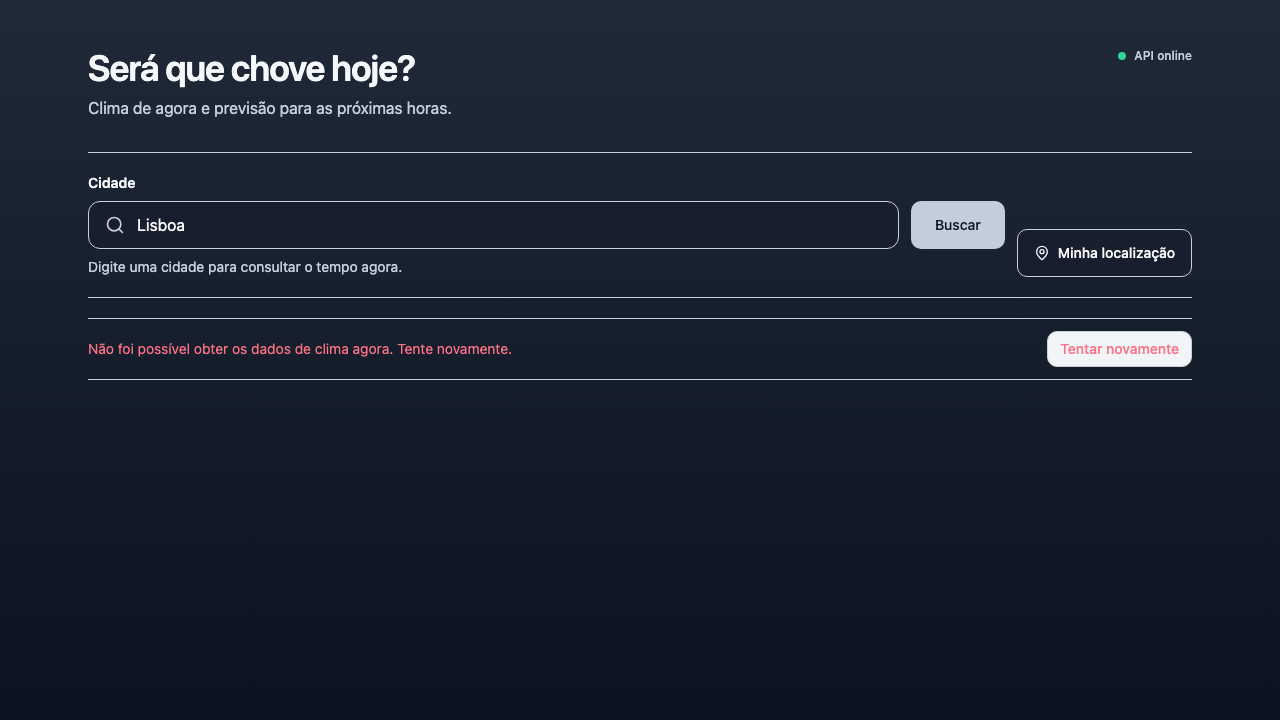
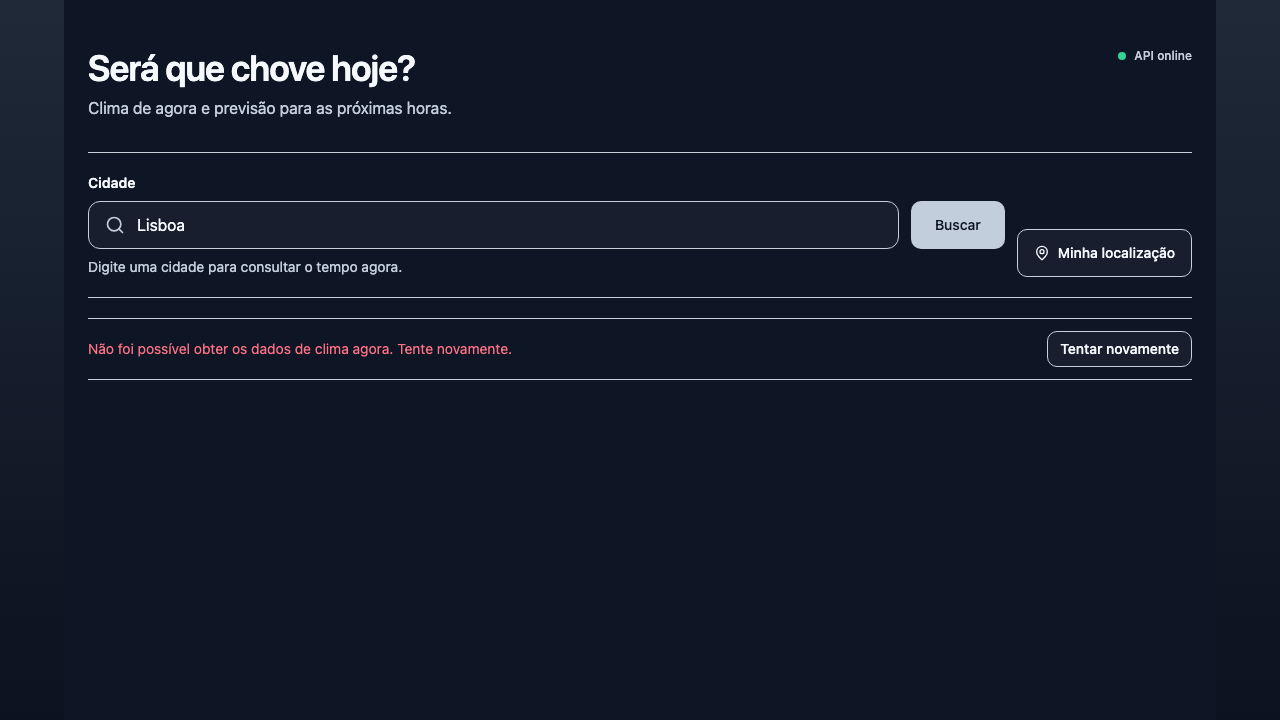
fix: ajustes apos execucao do code review

Changed region(s): [[0.8125, 0.4583, 0.9375, 0.5194]]

diff --git a/frontend/src/lib/resolve-theme.test.ts b/frontend/src/lib/resolve-theme.test.ts
@@ -10,23 +10,8 @@ const BANDS = Object.keys(BAND_COLORS) as (keyof typeof BAND_COLORS)[]
 
 describe('theme resolution', () => {
   it('TU-50 audits text, component and focus contrast across the token matrix', () => {
-    FAMILIES.forEach((family) => PERIODS.forEach((period: SurfacePeriod) => {
-      const tokens = resolveTheme({ conditionFamily: family, temperatureBand: getTemperatureBand(20), isDay: period === 'day' })
-      expect(meetsTextAA(tokens['surface-foreground'], tokens.surface)).toBe(true)
-      expect(meetsTextAA(tokens['surface-muted'], tokens.surface)).toBe(true)
-      expect(meetsTextAA(tokens['surface-foreground'], tokens['surface-raised'])).toBe(true)
-      expect(meetsTextAA(tokens['surface-muted'], tokens['surface-raised'])).toBe(true)
-      expect(meetsNonTextAA(tokens['focus-ring'], tokens.surface)).toBe(true)
-      expect(meetsTextAA(tokens['status-ok'], tokens.surface)).toBe(true)
-      expect(meetsTextAA(tokens['status-warn'], tokens.surface)).toBe(true)
-      expect(meetsTextAA(tokens['status-error'], tokens.surface)).toBe(true)
-    }))
-    BANDS.forEach((band) => {
-      const tokens = resolveTheme({ conditionFamily: 'neutral', temperatureBand: getTemperatureBand(20), isDay: true })
-      const accent = BAND_COLORS[band].accent
-      expect(meetsTextAA(FIXED_TOKENS.contrastText, accent)).toBe(true)
-      expect(meetsTextAA(accent, tokens.surface)).toBe(true)
-    })
+    FAMILIES.forEach((family) => PERIODS.forEach((period: SurfacePeriod) => auditSurface(family, period)))
+    BANDS.forEach((band) => auditBandContrast(band))
   })
 
   it('TU-51 keeps band accent luminance strictly ordered from cold to hot', () => {
@@ -61,3 +46,22 @@ describe('theme resolution', () => {
     expect(contrastRatio(variables['--surface-foreground'], variables['--surface'])).toBeGreaterThan(4.5)
   })
 })
+
+function auditSurface(family: typeof FAMILIES[number], period: SurfacePeriod): void {
+  const tokens = resolveTheme({ conditionFamily: family, temperatureBand: getTemperatureBand(20), isDay: period === 'day' })
+  expect(meetsTextAA(tokens['surface-foreground'], tokens.surface)).toBe(true)
+  expect(meetsTextAA(tokens['surface-muted'], tokens.surface)).toBe(true)
+  expect(meetsTextAA(tokens['surface-foreground'], tokens['surface-raised'])).toBe(true)
+  expect(meetsTextAA(tokens['surface-muted'], tokens['surface-raised'])).toBe(true)
+  expect(meetsNonTextAA(tokens['focus-ring'], tokens.surface)).toBe(true)
+  expect(meetsTextAA(tokens['status-ok'], tokens.surface)).toBe(true)
+  expect(meetsTextAA(tokens['status-warn'], tokens.surface)).toBe(true)
+  expect(meetsTextAA(tokens['status-error'], tokens.surface)).toBe(true)
+  BANDS.forEach((band) => {
+    expect(meetsTextAA(BAND_COLORS[band].accent, tokens.surface)).toBe(true)
+  })
+}
+
+function auditBandContrast(band: keyof typeof BAND_COLORS): void {
+  expect(meetsTextAA(FIXED_TOKENS.contrastText, BAND_COLORS[band].accent)).toBe(true)
+}

diff --git a/frontend/src/views/WeatherDashboardView.tsx b/frontend/src/views/WeatherDashboardView.tsx
@@ -42,7 +42,7 @@ function WeatherResults({ weather, locationLabel, temperatureUnit, windSpeedUnit
   return (
     <div className="mt-8">
       <CurrentWeatherCard current={weather.current} locationLabel={locationLabel} temperatureUnit={temperatureUnit} windSpeedUnit={windSpeedUnit} />
-      <div className="flex justify-end border-b border-border py-3"><UnitSelector onToggleTemperature={onToggleTemperature} onToggleWindSpeed={onToggleWindSpeed} temperatureUnit={temperatureUnit} windSpeedUnit={windSpeedUnit} /></div>
+      <div className="flex justify-end border-b border-surface-muted/30 py-3"><UnitSelector onToggleTemperature={onToggleTemperature} onToggleWindSpeed={onToggleWindSpeed} temperatureUnit={temperatureUnit} windSpeedUnit={windSpeedUnit} /></div>
       <HourlyForecast hours={weather.hourly} temperatureUnit={temperatureUnit} />
     </div>
   )
@@ -56,7 +56,7 @@ export function WeatherDashboardView() {
   return (
     <main className="min-h-screen bg-transparent text-surface-foreground" data-atmosphere={atmosphere.attributes.atmosphere} data-band={atmosphere.attributes.band} data-motion={atmosphere.attributes.motion} data-period={atmosphere.attributes.period} style={atmosphere.cssVariables as CSSProperties}>
       <AtmosphericBackground bandDeep={atmosphere.backgroundProps.bandDeep} family={atmosphere.backgroundProps.family} motion={atmosphere.backgroundProps.motion} period={atmosphere.backgroundProps.period} sky={atmosphere.backgroundProps.sky} />
-      <div className="mx-auto w-full max-w-6xl px-4 py-8 sm:px-6 sm:py-12">
+      <div className="mx-auto min-h-screen w-full max-w-6xl bg-surface px-4 py-8 transition-[background-color,color,border-color] duration-[600ms] sm:px-6 sm:py-12">
         <header className="mb-8 flex flex-wrap items-start justify-between gap-4">
           <div><h1 className="text-3xl font-semibold tracking-tight sm:text-4xl">Será que chove hoje?</h1><p className="mt-2 text-surface-muted">Clima de agora e previsão para as próximas horas.</p></div>
           <ApiStatus status={dashboard.apiStatus} />

diff --git a/frontend/src/components/weather/CurrentWeatherCard.tsx b/frontend/src/components/weather/CurrentWeatherCard.tsx
@@ -55,13 +55,13 @@ export function CurrentWeatherCard({ locationLabel, current, temperatureUnit, wi
   const humidity = current.relativeHumidity === null ? '—' : `${current.relativeHumidity}%`
   const pressure = current.surfacePressureHpa === null ? '—' : `${Math.round(current.surfacePressureHpa)} hPa`
   return (
-    <section aria-labelledby="current-weather-title" className="border-y border-surface-muted/30 bg-surface px-5 py-6 text-surface-foreground sm:px-8 sm:py-8">
+    <section aria-labelledby="current-weather-title" className="border-y border-surface-muted/30 bg-surface px-5 py-6 text-surface-foreground transition-[background-color,color,border-color] duration-[600ms] sm:px-8 sm:py-8">
       <header className="flex flex-wrap items-start justify-between gap-4">
         <div>
-          <h2 className="text-2xl font-semibold tracking-tight text-foreground" id="current-weather-title">{locationLabel}</h2>
+           <h2 className="text-2xl font-semibold tracking-tight text-surface-foreground" id="current-weather-title">{locationLabel}</h2>
            <p className="mt-1 text-sm text-surface-muted">Agora · horário local {localTime(current.time)}</p>
         </div>
-        <div className="flex items-center gap-2 text-sm font-medium text-foreground">
+         <div className="flex items-center gap-2 text-sm font-medium text-surface-foreground">
            <WeatherIcon className="h-6 w-6 text-band-accent" code={current.weatherCode} isDay={current.isDay} />
           <span>{condition.labelPtBr}</span>
         </div>

diff --git a/frontend/src/components/weather/StatusMessage.tsx b/frontend/src/components/weather/StatusMessage.tsx
@@ -12,8 +12,8 @@ export function StatusMessage({ message, busy, error, onRetry }: StatusMessagePr
   return (
     <div aria-busy={busy} aria-live={error ? 'assertive' : 'polite'} className={`mt-5 flex flex-wrap items-center justify-between gap-3 border-y py-3 text-sm ${error ? 'border-status-error/40 text-status-error' : 'border-surface-muted/30 text-surface-muted'}`} role={error ? 'alert' : 'status'}>
       <p>{message}</p>
-      {busy && <div aria-hidden="true" className="flex gap-2"><span className="h-2 w-20 animate-pulse rounded bg-secondary" /><span className="h-2 w-12 animate-pulse rounded bg-secondary" /></div>}
-      {onRetry && <Button onClick={onRetry} size="sm" type="button" variant="outline">Tentar novamente</Button>}
+      {busy && <div aria-hidden="true" className="flex gap-2"><span className="h-2 w-20 animate-pulse rounded bg-surface-muted/40" /><span className="h-2 w-12 animate-pulse rounded bg-surface-muted/40" /></div>}
+      {onRetry && <Button className="border-status-error/40 bg-surface-raised text-surface-foreground hover:bg-surface-foreground hover:text-surface" onClick={onRetry} size="sm" type="button" variant="outline">Tentar novamente</Button>}
     </div>
   )
 }
